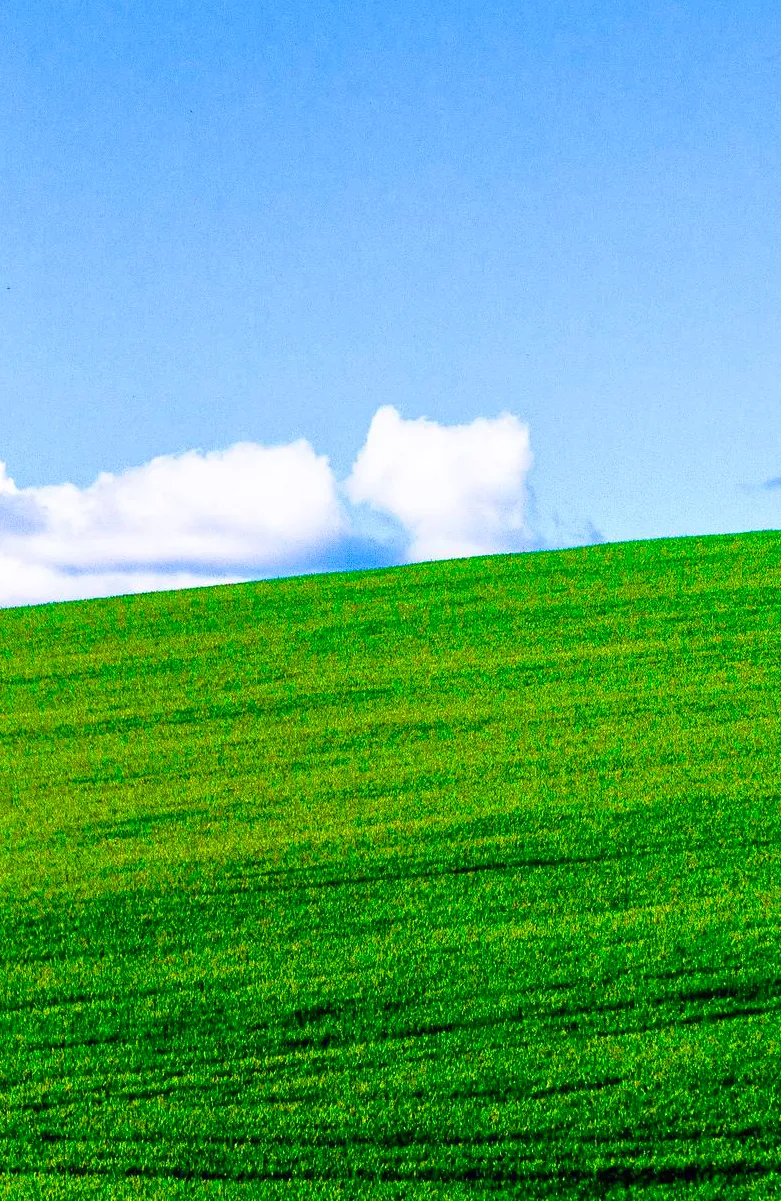
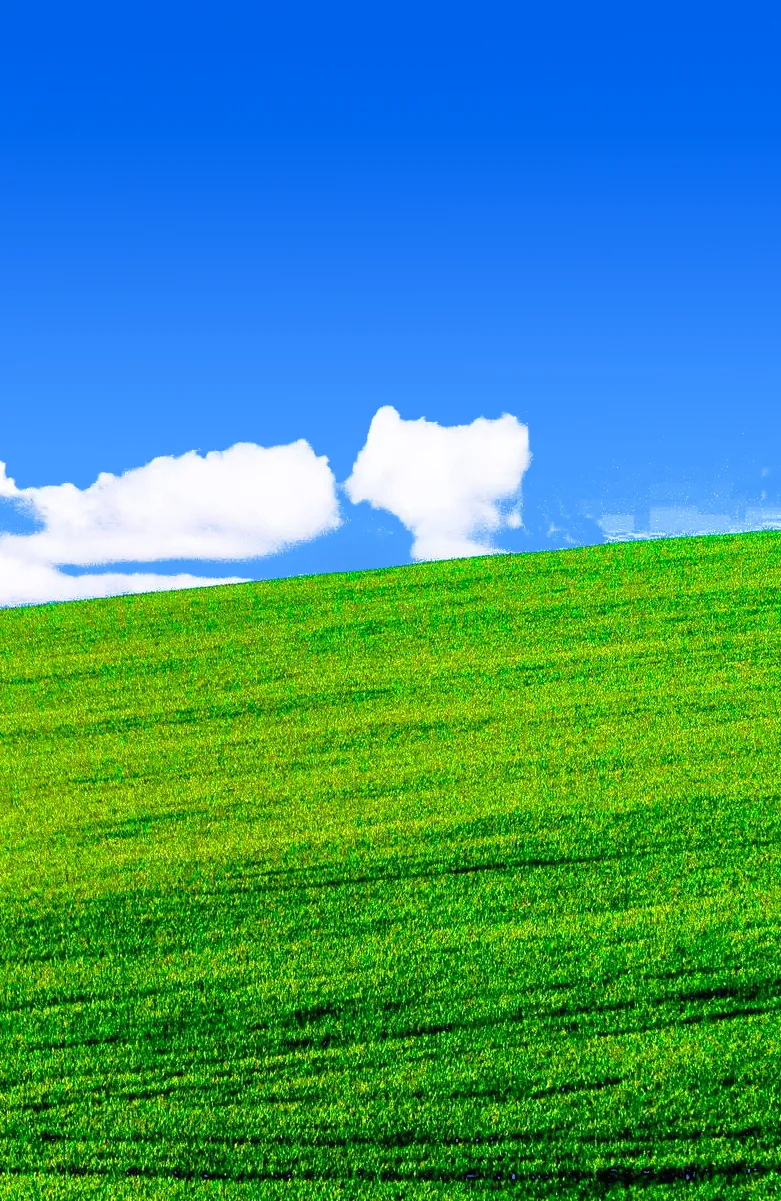
fix: door states and brightness

diff --git a/app/globals.css b/app/globals.css
@@ -621,15 +621,16 @@ body {
     border: 0;
     background: none;
     cursor: pointer;
-    /* Eye level a little below the head of the door, near the horizon. */
-    perspective: calc(var(--dh) * 3.2);
-    perspective-origin: 50% 70%;
+    /* Eye level a little above the door's middle: the leaf swinging towards
+       us grows a little, but its top corner stays under the head casing. */
+    perspective: calc(var(--dh) * 4);
+    perspective-origin: 50% 55%;
     -webkit-tap-highlight-color: transparent;
   }
   .door-portal {
     position: absolute;
     overflow: hidden;
-    background: #7fb4ef;
+    background: #2a6fe8;
   }
   /* The far world, a little larger than the opening so it can drift. */
   .door-portal-img,
@@ -653,24 +654,58 @@ body {
       inset -2px 0 3px -1px rgb(0 0 0 / 0.12);
     pointer-events: none;
   }
+  /* Clean white paint: the photos lifted to white, a touch more contrast so
+     the mouldings still read. */
   .door-frame {
     position: absolute;
     inset: 0;
     width: 100%;
     height: 100%;
+    filter: brightness(1.1) contrast(1.08) saturate(0.7);
   }
   .door-leaf {
     position: absolute;
     transform-origin: 0 50%;
     transform: rotateY(calc(var(--door-a) * -1));
-    /* Its far side, turned to us, catches a little less light. */
-    filter: brightness(0.94);
+    filter: brightness(1.1) contrast(1.08) saturate(0.7);
   }
   .door-leaf img {
     display: block;
   }
+  /* Soft daylight from above on the paint, clipped to the photo's own shape. */
+  .door-light {
+    position: absolute;
+    inset: 0;
+    pointer-events: none;
+    background: linear-gradient(
+      to bottom,
+      rgb(255 255 255 / 0.55),
+      rgb(255 255 255 / 0.12) 30%,
+      transparent 55%,
+      rgb(20 40 60 / 0.06)
+    );
+    -webkit-mask: var(--mask) 0 0 / 100% 100% no-repeat;
+    mask: var(--mask) 0 0 / 100% 100% no-repeat;
+  }
+  /* A small specular glint on the lever's rose (handle: ~85 % across, mid height). */
+  .door-glint {
+    position: absolute;
+    left: 85%;
+    top: 50.4%;
+    width: 9%;
+    aspect-ratio: 1;
+    translate: -50% -50%;
+    border-radius: 50%;
+    pointer-events: none;
+    background: radial-gradient(closest-side, rgb(255 255 255 / 0.95), rgb(255 255 255 / 0.35) 45%, transparent);
+    mix-blend-mode: screen;
+  }
+  :root:not([data-ready]) :is(.door-light, .door-glint) {
+    visibility: hidden;
+  }
   /* Contact shade on the grass: under the threshold, and under the leaf's foot
-     (as long as the leaf's footprint: the opening's width × −cos of its angle). */
+     (as long as the leaf's footprint across: the opening's width × |cos| of its
+     angle — to the right of the hinge while ajar, to the left once past 90°). */
   .door-shade {
     position: absolute;
     pointer-events: none;
@@ -683,9 +718,10 @@ body {
     height: 9px;
   }
   .door-shade-leaf {
-    --foot: calc(var(--dw) * var(--o-width) * -1 * cos(var(--door-a)) * 1.08);
-    left: calc(var(--o-left) - var(--foot));
-    width: calc(var(--foot) + 6px);
+    --c: cos(var(--door-a));
+    --len: calc(var(--dw) * var(--o-width) * 1.08);
+    left: calc(var(--o-left) - var(--len) * max(0, -1 * var(--c)) - 3px);
+    width: calc(var(--len) * max(var(--c), -1 * var(--c)) + 6px);
     top: calc(100% - 3px);
     height: calc(var(--dh) * 0.07);
   }
@@ -739,7 +775,7 @@ body {
     z-index: 75;
     overflow: hidden;
     pointer-events: none;
-    background: #7fb4ef;
+    background: #2a6fe8;
     transform-origin: 50% 50%;
     will-change: transform;
   }
@@ -970,7 +1006,7 @@ body {
 @property --door-a {
   syntax: "<angle>";
   inherits: true;
-  initial-value: 128deg;
+  initial-value: 32deg;
 }
 @keyframes xp-new-message {
   50% {

diff --git a/app/components/decor/FieldDoor.tsx b/app/components/decor/FieldDoor.tsx
@@ -9,13 +9,15 @@ import { Photo } from "../media/Picture";
 
 /*
  * Leaf angles: how far the leaf has swung OUT, towards the viewer, about its
- * hinge on the left (0 = shut). Past 90° it lies to the left of the opening and
- * the whole portal shows, as on the reference — at a true 30° the leaf would
- * still hide ~85 % of it.
+ * hinge on the left (0 = shut). Three states that read at a glance (share of
+ * the opening the portal shows, with this perspective):
+ *   AJAR  — at rest: a narrow strip of the other world (~13 %);
+ *   WIDER — hover / keyboard focus: most of it (~60 %, ≈ 5× the strip);
+ *   OPEN  — click: flung wide past the casing, the whole portal, then the zoom.
  */
-const AJAR = 128;
-const WIDER = 150;
-const OPEN = 168;
+const AJAR = 32;
+const WIDER = 68;
+const OPEN = 165;
 /** Where the leaf's edges sit, % of the opening (a hair under the casing at hinge and head). */
 const LEAF_EDGES = { hinge: -1.5, top: -0.8, free: -1, bottom: 0 };
 /** Portal parallax: how far the far world drifts, px, at the edge of the screen. */
@@ -225,6 +227,7 @@ export function FieldDoor() {
           <img ref={portalImg} {...PORTAL} alt="" className="door-portal-img" />
         </span>
         <Photo photo={door.frame} sizes="(max-width: 640px) 60px, 100px" className="door-frame" />
+        <span aria-hidden="true" className="door-light" style={{ "--mask": `url(${door.frame.src})` } as CSSProperties} />
         <span
           aria-hidden="true"
           className="door-leaf"
@@ -236,6 +239,9 @@ export function FieldDoor() {
           }}
         >
           <Photo photo={door.leaf} sizes="(max-width: 640px) 60px, 100px" className="h-full w-full" />
+          {/* Soft light from above on the paint, and a glint on the handle. */}
+          <span aria-hidden="true" className="door-light" style={{ "--mask": `url(${door.leaf.src})` } as CSSProperties} />
+          <span aria-hidden="true" className="door-glint" />
         </span>
       </button>
       {/* Blades of the field's own grass over the door's foot. */}
